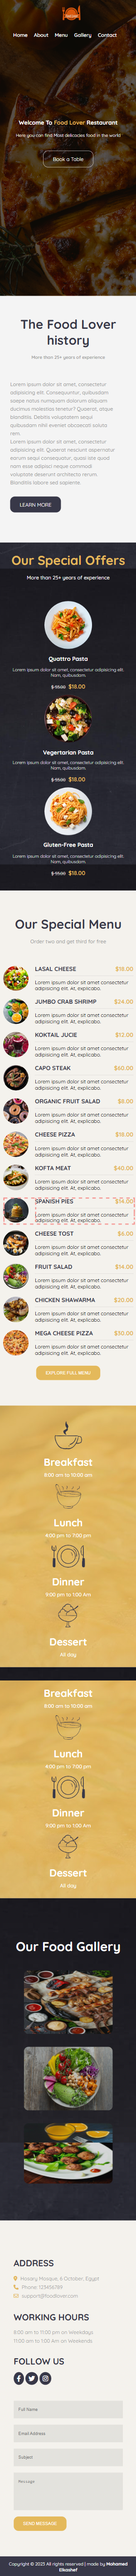
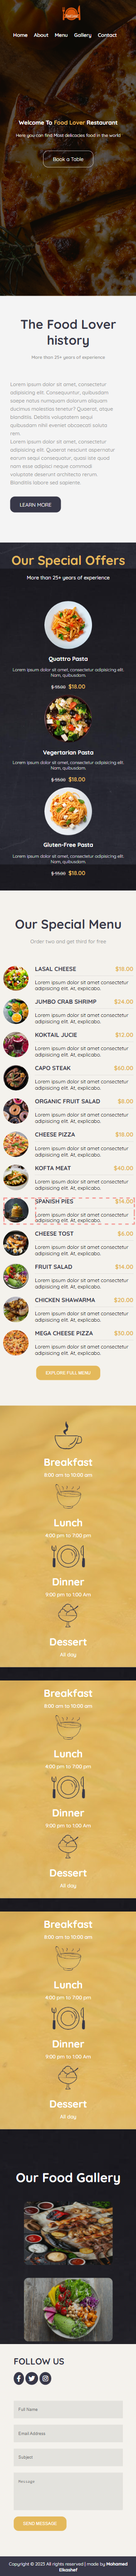
Create daytime Section

Changed region(s): [[0.0, 0.7188, 1.0, 0.9375]]

diff --git a/index.html b/index.html
@@ -220,5 +220,42 @@
         </div>
     </section>
     <!-- Menu End -->
+
+    <!-- Daytime Start -->
+    <section id="daytime">
+        <div class="contariner">
+            <div class="daytime-items">
+
+                <div class="daytime-item">
+                    <img src="images/breckfastIcon.png" alt="breakfast image">
+                    <h3>Breakfast</h3>
+                    <p>8:00 am To 10:00 am</p>
+                </div>
+
+                
+                <div class="daytime-item">
+                    <img src="images/lunchIcon.png" alt="lunch image">
+                    <h3>Lunch</h3>
+                    <p>4:00 pm To 10:00 pm</p>
+                </div>
+
+                
+                <div class="daytime-item">
+                    <img src="images/dinnerIcon.png" alt="dinner image">
+                    <h3>Dinner</h3>
+                    <p>9:00 pm To 1:00 am</p>
+                </div>
+
+                
+                <div class="daytime-item">
+                    <img src="images/dessertIcon.png" alt="dessert image">
+                    <h3>Dessert</h3>
+                    <p>All Day</p>
+                </div>
+
+            </div>
+        </div>
+    </section>
+    <!-- Daytime End -->
   </body>
 </html>

diff --git a/style.css b/style.css
@@ -307,12 +307,51 @@ header * {
     background: var(--secondary-text-color);
 }
 
-
-
-
-
-
 /* Menu End */
+
+/* Daytime Start */
+
+#daytime{
+    background: url('images/daytime_bg.jpeg') center center/cover fixed no-repeat;
+    color: var(--White-color);
+    text-align: center;
+}
+
+#daytime .daytime-items{
+    display: flex;
+    justify-content: space-evenly;
+    align-items: center;
+    height: 40vh;
+}
+
+#daytime .daytime-items h3{
+    font-size: 32px;
+    margin: 20px 0 10px;
+}
+
+#daytime .daytime-items p{
+    font-weight: 500 ;
+}
+
+
+
+
+
+
+
+/* Daytime End */
+
+
+
+
+
+
+
+
+
+
+
+
 
 
 
